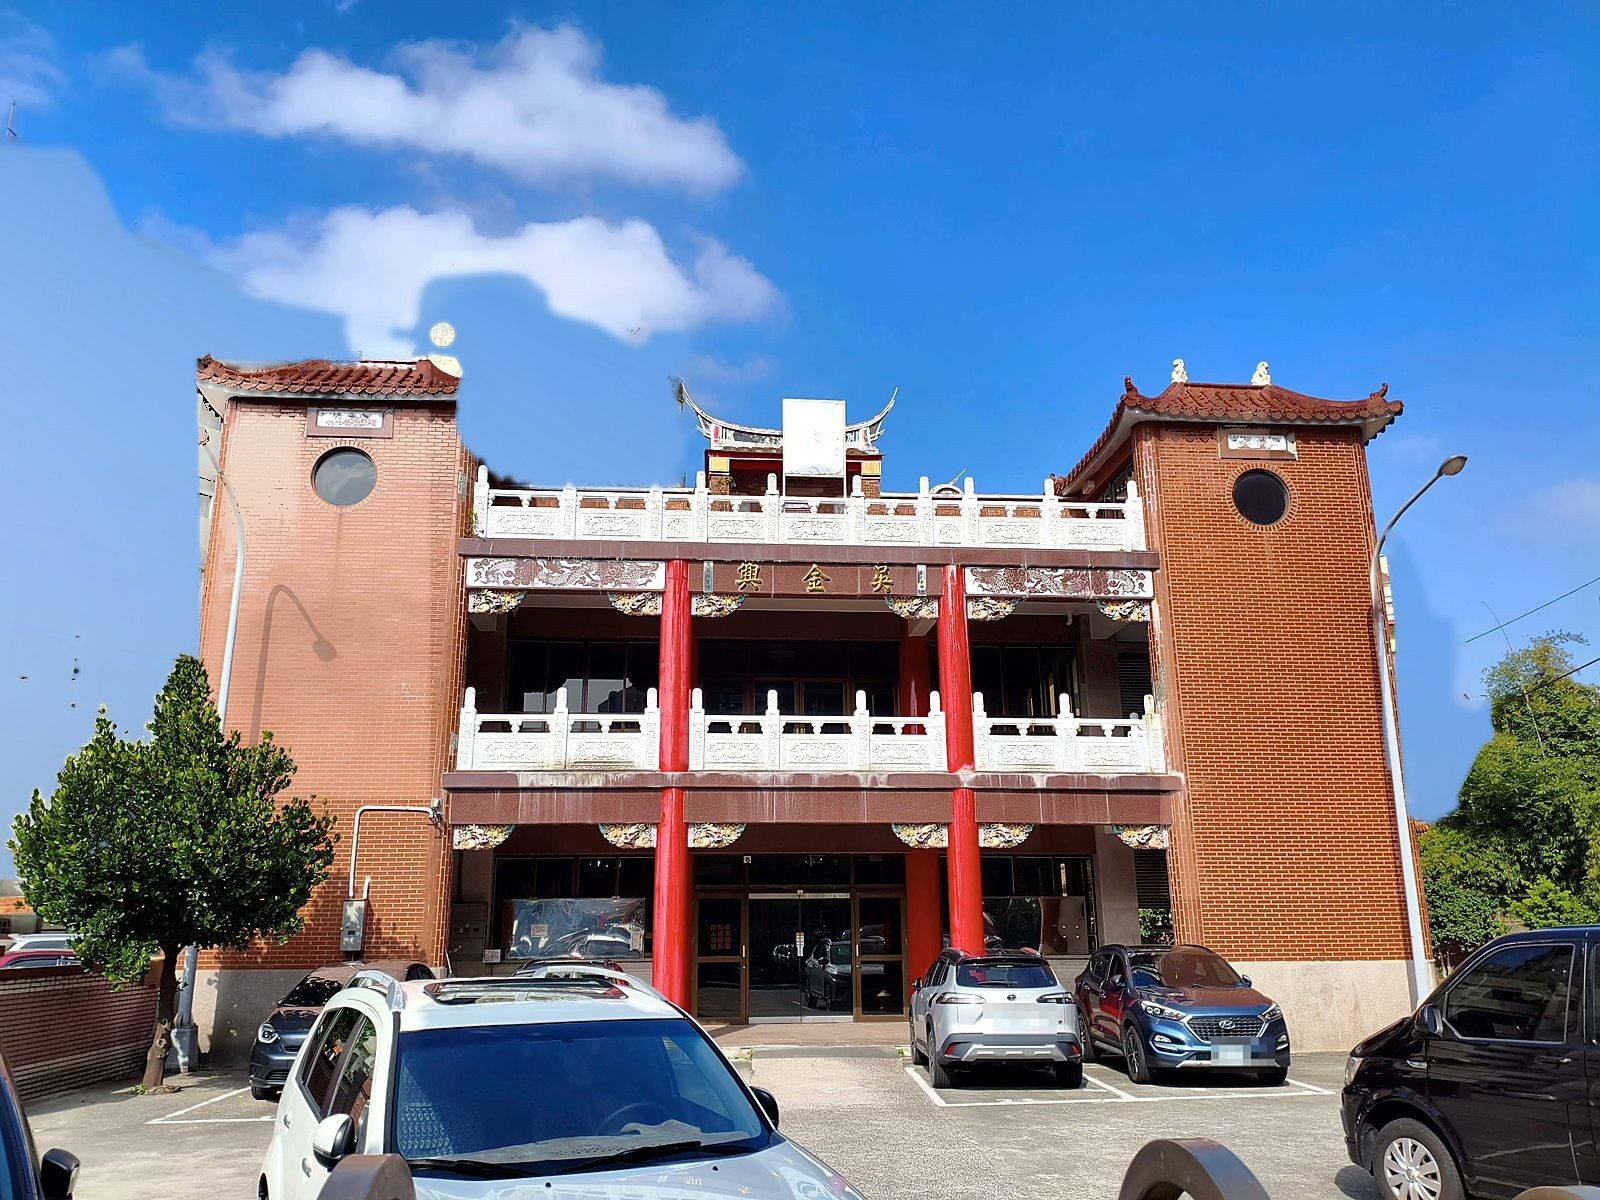
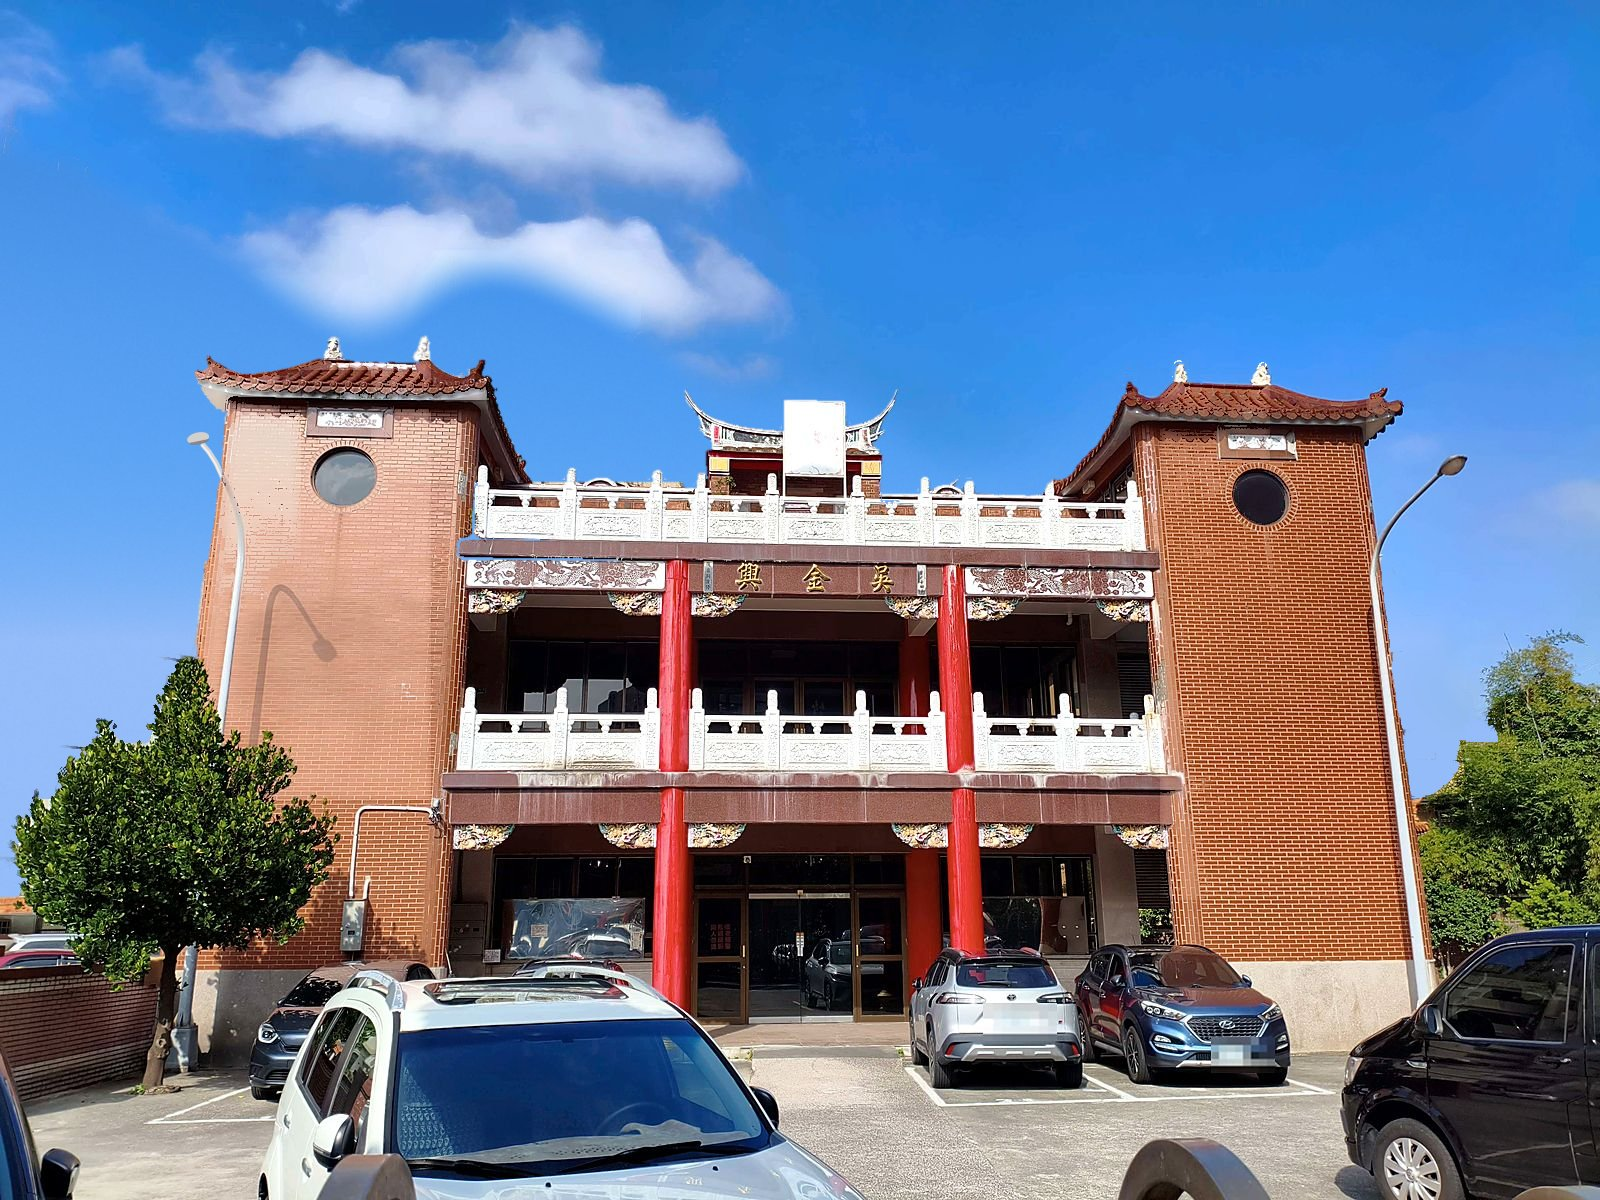
Use cleaner hero photo with precise background replacement (v2)

diff --git a/index.html b/index.html
@@ -12,11 +12,11 @@
   <meta property="og:description" content="新竹市北區文雅街8號，長租車位招租中。月租 NT$3,000，可季繳或年繳。辦公室電話 03-5421783。">
   <meta property="og:site_name" content="祭祀公業吳金興停車場">
   <meta property="og:url" content="https://vwu45875-gi.github.io/wujinxing-parking/">
-  <meta property="og:image" content="https://vwu45875-gi.github.io/wujinxing-parking/images/hero-front.jpg">
+  <meta property="og:image" content="https://vwu45875-gi.github.io/wujinxing-parking/images/hero-front.jpg?v=2">
   <meta name="twitter:card" content="summary_large_image">
   <meta name="twitter:title" content="祭祀公業吳金興停車場｜月租車位招租中">
   <meta name="twitter:description" content="新竹市北區文雅街8號，長租車位招租中。月租 NT$3,000，可季繳或年繳。辦公室電話 03-5421783。">
-  <meta name="twitter:image" content="https://vwu45875-gi.github.io/wujinxing-parking/images/hero-front.jpg">
+  <meta name="twitter:image" content="https://vwu45875-gi.github.io/wujinxing-parking/images/hero-front.jpg?v=2">
   <meta name="theme-color" content="#14332a">
   <link rel="canonical" href="https://vwu45875-gi.github.io/wujinxing-parking/">
   <base href="/wujinxing-parking/">
@@ -694,7 +694,7 @@
   <main id="main">
     <section class="hero" id="top">
       <div class="hero-bg">
-        <img src="images/hero-front.jpg" width="1600" height="1200" alt="祭祀公業吳金興停車場正面外觀">
+        <img src="images/hero-front.jpg?v=2" width="1600" height="1200" alt="祭祀公業吳金興停車場正面外觀">
       </div>
       <div class="hero-inner">
         <p class="badge">招租中</p>
